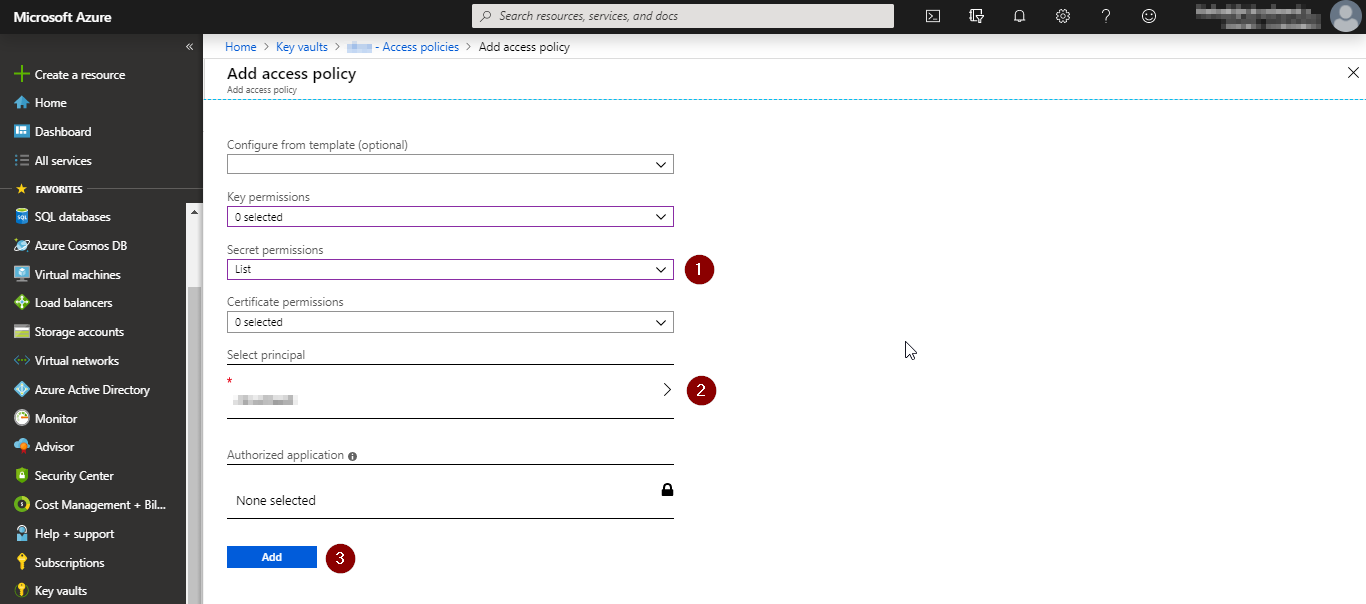
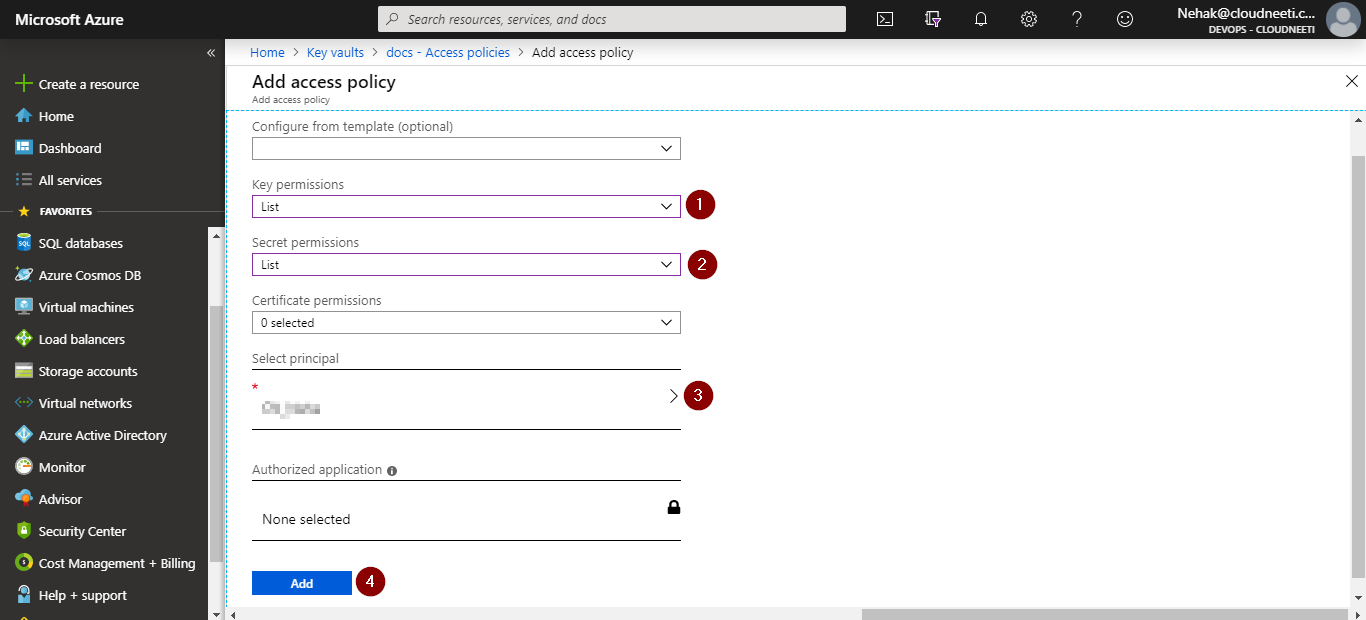
Task 11105 : Updates to key-vault permissions section

diff --git a/docs/onboardingGuide/azureSubscriptions.md b/docs/onboardingGuide/azureSubscriptions.md
@@ -259,9 +259,9 @@ If the Key Vault access policy is not added, Cloudneeti application will not be 
 4.	Select **Access policies** (1)
 5.	Click on **Add Access Policy** (2)
     ![Access Policy](.././images/azureSubscriptions/Add_Access_Policy.png#thumbnail)
-6.	Select **List** in **Secret Permission** (1)
-7.	Select **Principal** as Cloudneeti Application registered in [step 1](.././azureSubscriptions/#step-1-register-cloudneeti-application) (2)
-8.	Click **Add** access policy (3)
+6.	Select **List** in **Key Permissions** and **Secret Permissions** (1) (2)
+7.	Select **Principal** as Cloudneeti Application registered in [step 1](.././azureSubscriptions/#step-1-register-cloudneeti-application) (3)
+8.	Click **Add** access policy (4)
    ![Access Policy](.././images/azureSubscriptions/Select_Permission.png#thumbnail)
 Note: Perform this step on all the key vaults present in your subscription.
 
